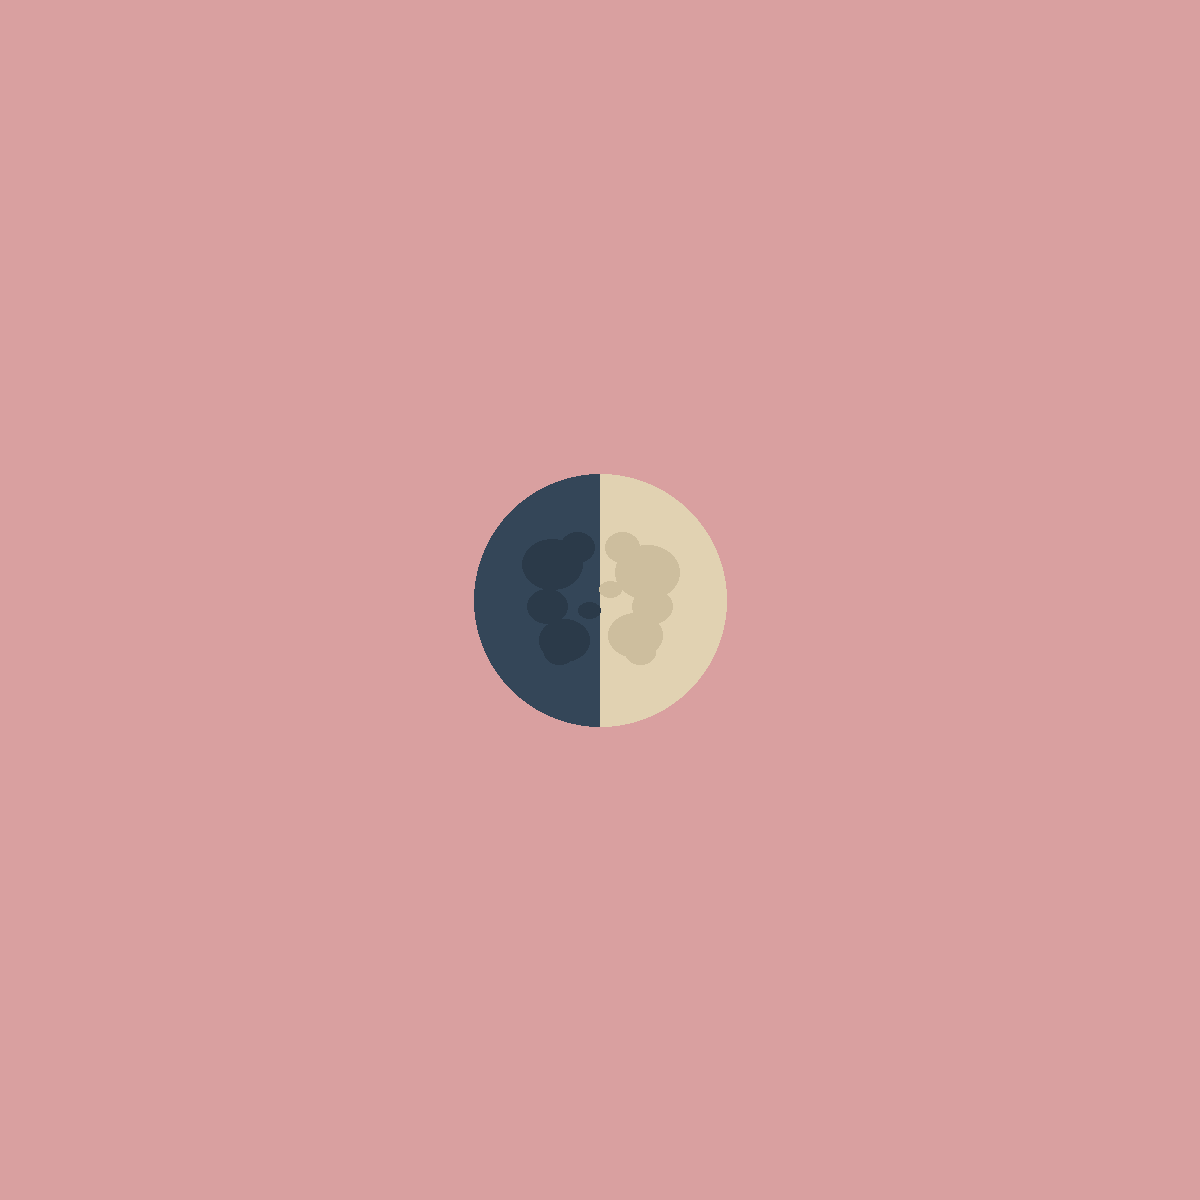
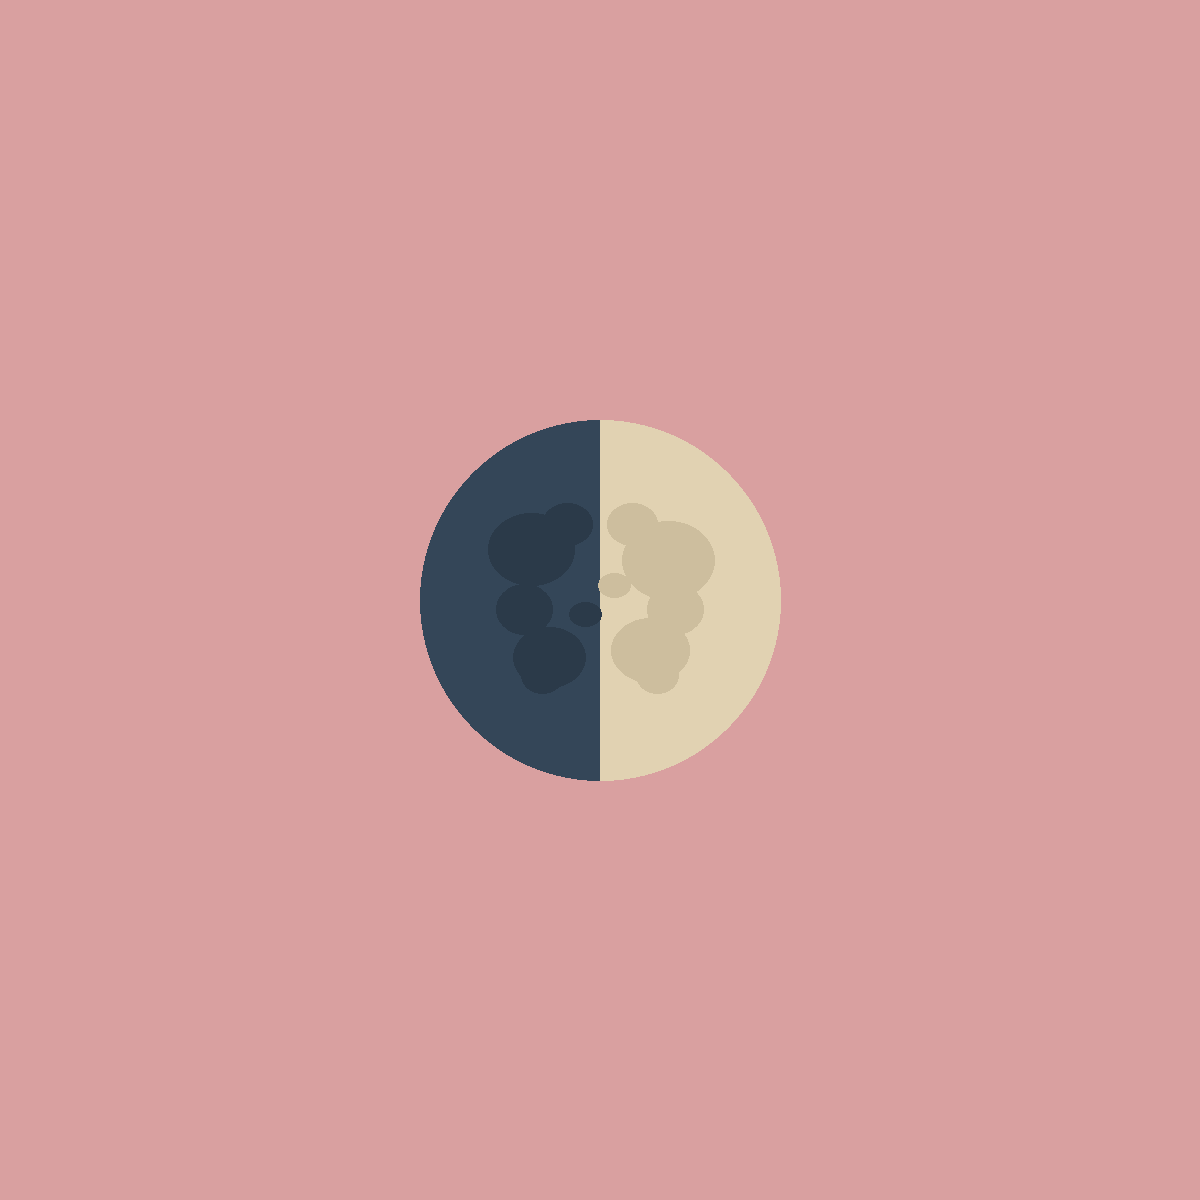
调整月亮图标直径至约30%（原46%的65%）
在 21% 基础上略放大，moon_ratio 由 0.21 改为 0.30（半径 10.5% → 15%）。

Changed region(s): [[0.3392, 0.3392, 0.6475, 0.6475]]

diff --git a/gen-apk-icons.py b/gen-apk-icons.py
@@ -2,7 +2,7 @@ from PIL import Image, ImageDraw
 import os
 
 # Reference spec:
-# - Moon diameter = ~21% of canvas (radius = ~10.5%) — refined from previous 46% to ~46% of that
+# - Moon diameter = ~30% of canvas (radius = ~15%) — refined from original 46% to ~65% of that
 # - Left (shadow) side:  #344658 -> RGB(52, 70, 88)
 # - Right (light) side: #e1d2b2 -> RGB(225, 210, 178)
 # - Craters on left:    #2b3a49 -> RGB(43, 58, 73)
@@ -43,7 +43,7 @@ def draw_moon(size, corner_radius_ratio=0.22):
     draw.rounded_rectangle([0, 0, size, size], radius=corner_radius, fill=BG_COLOR)
 
     center = size // 2
-    radius = int(size * 0.105)  # diameter ~21% (46% of previous 46%)
+    radius = int(size * 0.15)  # diameter ~30% (about 65% of original 46%)
 
     draw.ellipse(
         [center - radius, center - radius, center + radius, center + radius],

diff --git a/generate-icons.py b/generate-icons.py
@@ -1,7 +1,7 @@
 from PIL import Image, ImageDraw
 
 # Reference spec:
-# - Moon diameter = ~21% of canvas (radius = ~10.5%) — refined from previous 46% to ~46% of that
+# - Moon diameter = ~30% of canvas (radius = ~15%) — refined from original 46% to ~65% of that
 # - Left (shadow) side:  #344658 -> RGB(52, 70, 88)
 # - Right (light) side: #e1d2b2 -> RGB(225, 210, 178)
 # - Craters on left:    #2b3a49 -> RGB(43, 58, 73)
@@ -33,7 +33,7 @@ CRATERS_RIGHT = [
 ]
 
 
-def draw_moon(size, corner_radius_ratio=0.22, moon_ratio=0.21, maskable=False):
+def draw_moon(size, corner_radius_ratio=0.22, moon_ratio=0.30, maskable=False):
     """Generate the moon app icon matching the reference screenshot."""
     img = Image.new('RGBA', (size, size), BG_COLOR)
     draw = ImageDraw.Draw(img)
